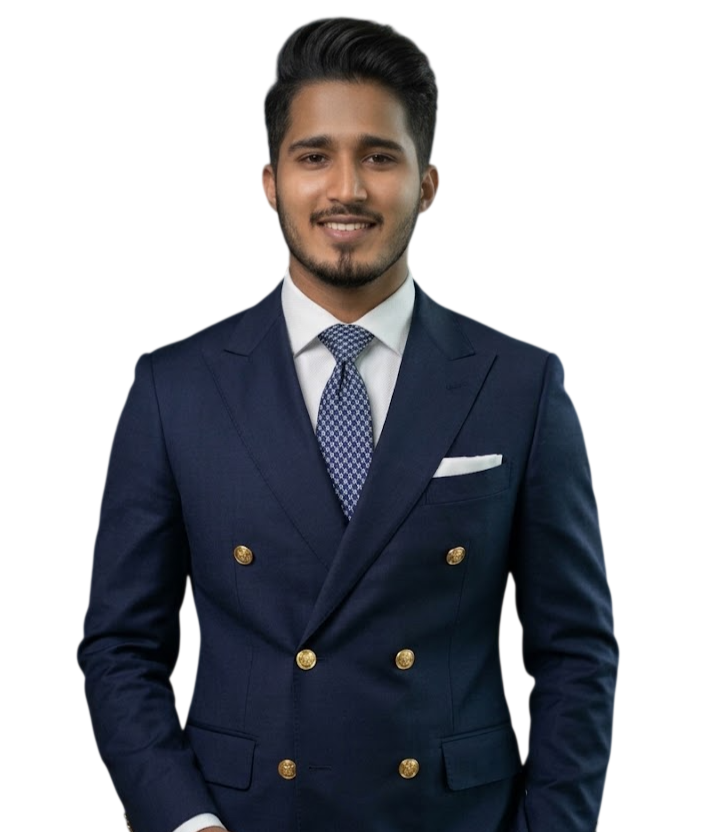
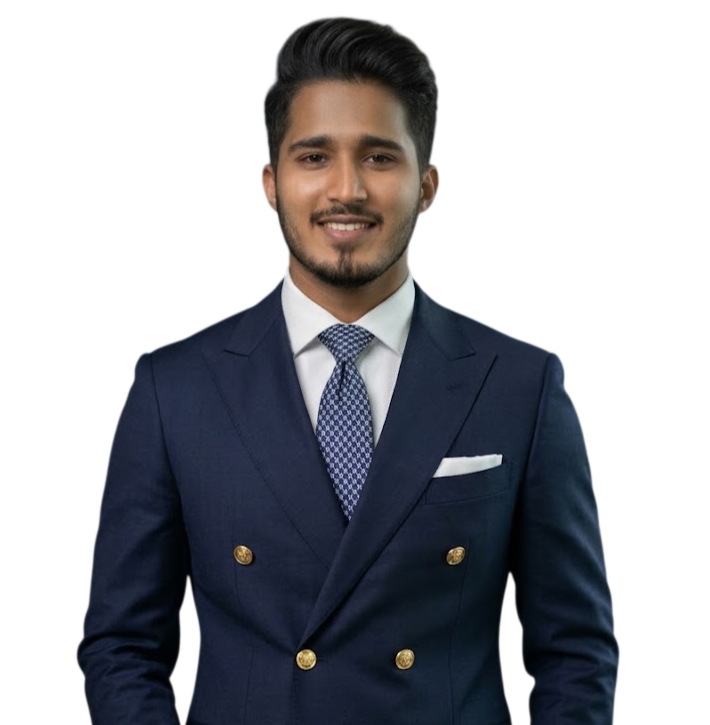
feat: added blog section, project routing, and fixed 404 page

diff --git a/src/data/projectSlugs.js b/src/data/projectSlugs.js
@@ -14,7 +14,7 @@
 
 export const PROJECT_SLUGS = {
   0: 'nexa-calculator',
-  1: 'resumeai-pro',
+  1: 'maniesta-career-os',
   2: 'zain-real-estate',
   4: 'maniesta-campus',
   5: 'maniesta-suite',
@@ -29,6 +29,8 @@ export const PROJECT_SLUGS = {
   14: 'maniesta-play',
   15: 'maniesta-weather',
   16: 'maniesta-notes',
+  17: 'maniesta-academic-portal',
+  18: 'maniesta-real-estate',
 };
 
 /**
